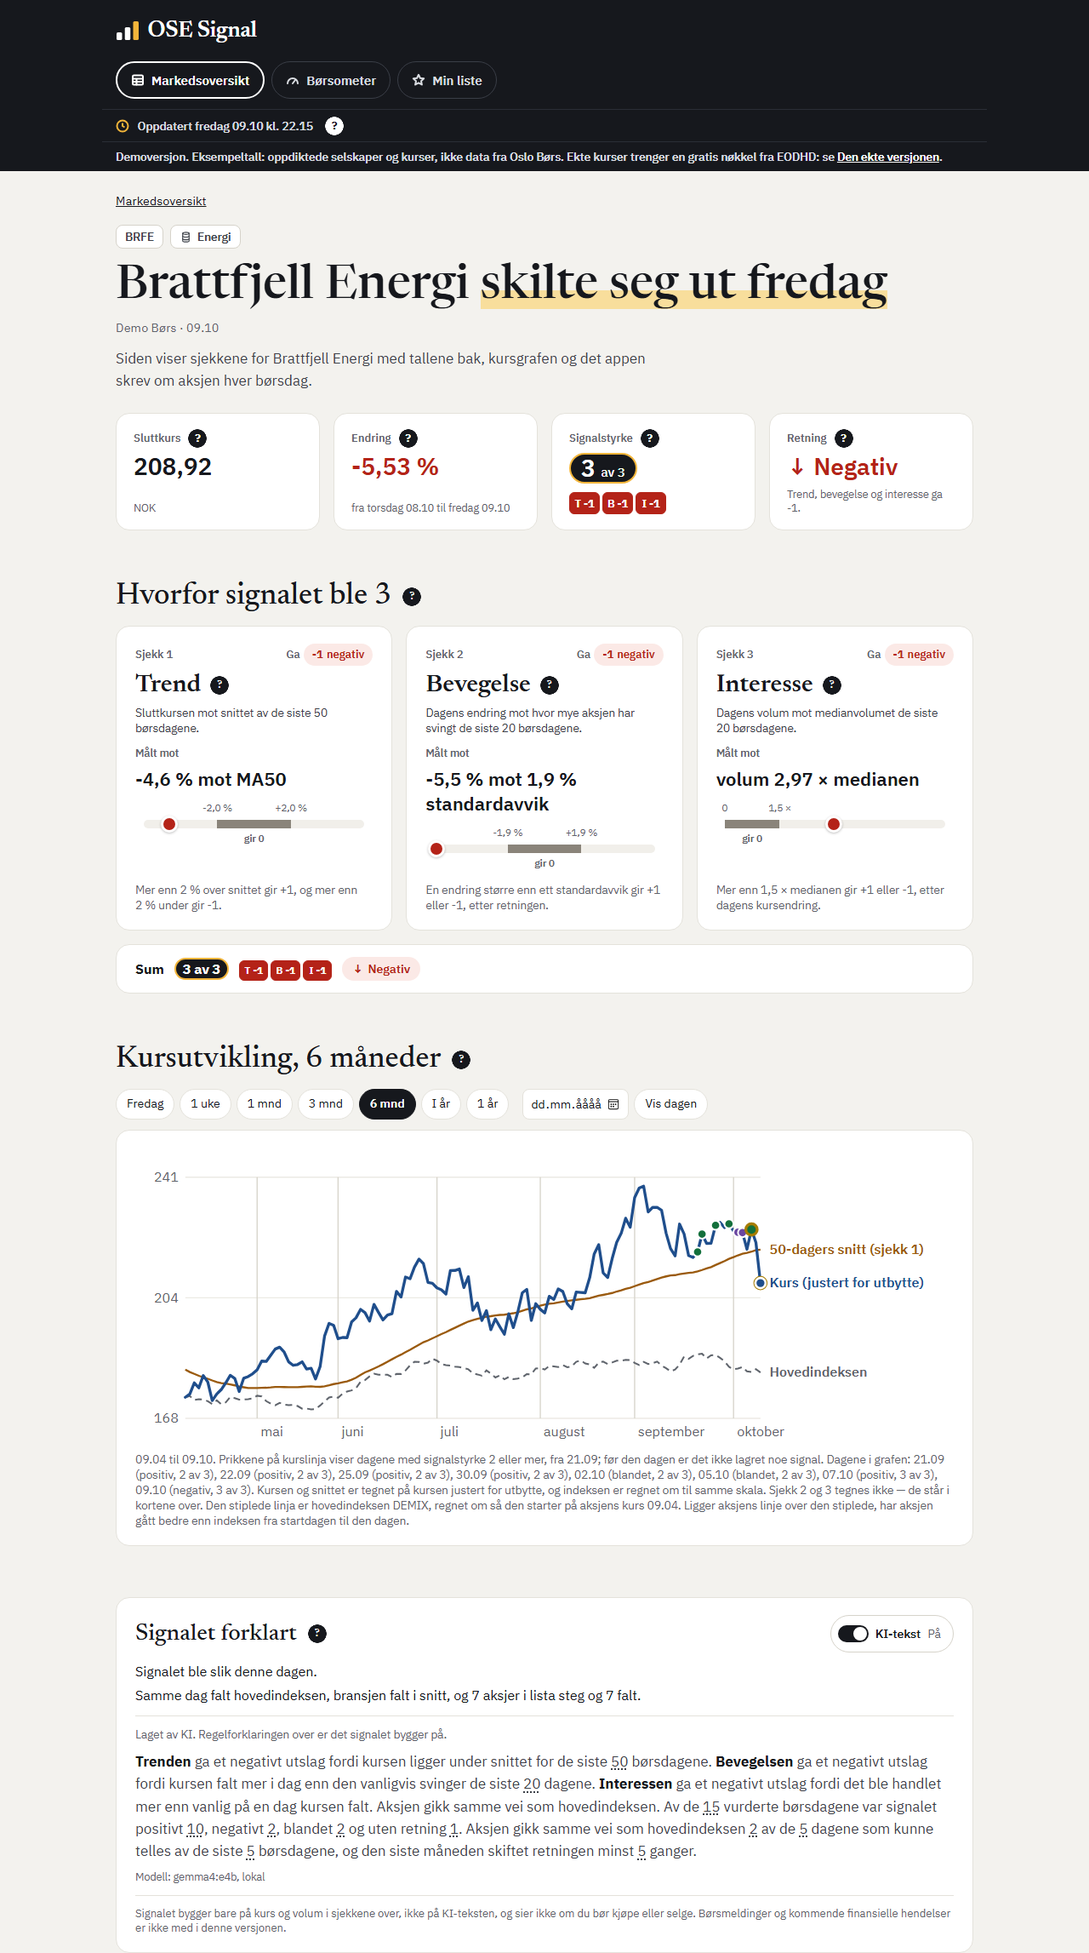
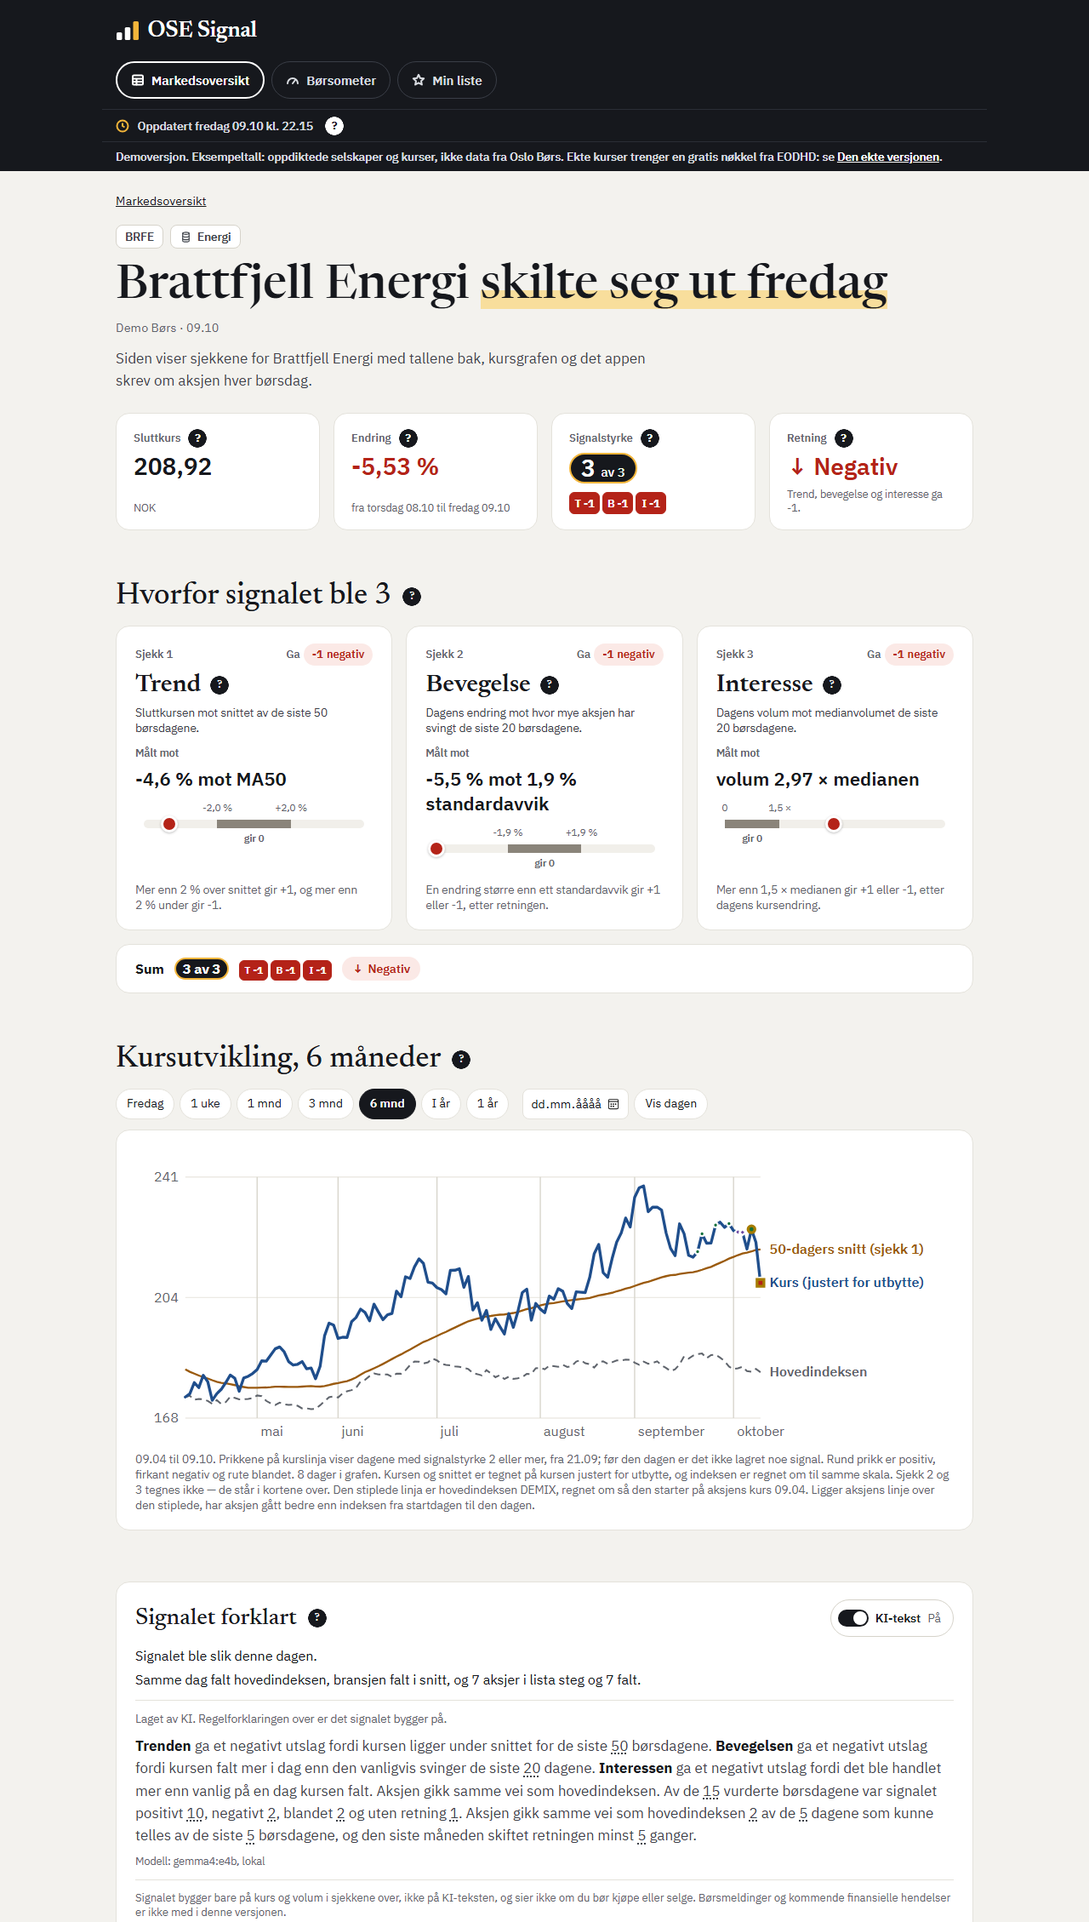
Story 8.8: rettingene etter gjennomgangen, skjult dagliste, form for retningen og prikkene øverst
BH3/ECH1: lista over dagene er skjult på aksjesiden, og antallet står.
ECH2: prikkene tegnes over siste-punktet. BH2/ECH7: rund, firkant og rute for
positiv, negativ og blandet. BH5: radien følger avstanden mellom dagene.
BH6/ECH4: en startdato etter grafen sies for seg. Triagen står i spesifikasjonen.

diff --git a/src/templates/aksje.html b/src/templates/aksje.html
@@ -207,13 +207,6 @@
           <polyline class="ma50linje" points="{{ g.ma50linje }}"></polyline>
         {% endif %}
         <polyline class="kurslinje" points="{{ g.kurslinje }}"></polyline>
-        {#- Story 8.8 (FR-206): en prikk på kurslinja for hver dag aksjen
-            skilte seg ut, i fargen for retningen, med gul ring ved 3 av 3.
-            Lest fra vurdering, aldri regnet. Skjermleseren får dagene i
-            teksten under grafen. #}
-        {% for s in g.signaldager %}
-          <circle class="signaldag {{ s.retning|lower }}{% if s.alle %} alle{% endif %}" cx="{{ "%.1f"|format(s.x) }}" cy="{{ "%.1f"|format(s.y) }}" r="{{ 5 if s.alle else 4 }}"></circle>
-        {% endfor %}
         {#- Story 8.20a (del C, spørsmål 9 i 8.20, U89): datoen i en svart lapp
             øverst på streken, og uten punktet nederst. Lappen står innenfor
             grafen sidelengs, også ved kanten. Story 8.20b (BH9): lappen står
@@ -226,6 +219,18 @@
           <text class="daglapptekst" text-anchor="middle" x="{{ "%.1f"|format(lappx + 22) }}" y="{{ lappy + 13 }}">{{ dagen.dato|dato }}</text>
         {% endif %}
         {% if g.siste %}<circle class="sistepunkt" cx="{{ "%.1f"|format(g.siste.x) }}" cy="{{ "%.1f"|format(g.siste.y) }}" r="4.5"></circle>{% endif %}
+        {#- Story 8.8 (FR-206): en prikk på kurslinja for hver dag aksjen
+            skilte seg ut, lest fra vurdering og aldri regnet. Gjennomgangen
+            (ECH2): tegnet etter siste-punktet og streken, så de ikke dekker
+            den. Gjennomgangen (BH2, ECH7): retningen har også en form,
+            rund for positiv, firkant for negativ og rute for blandet, og
+            gul ring ved 3 av 3. Skjermleseren får dagene under grafen. #}
+        {% for s in g.signaldager %}
+          {%- set klasse = "signaldag " ~ s.retning|lower ~ (" alle" if s.alle else "") %}
+          {% if s.retning == "Negativ" %}<rect class="{{ klasse }}" x="{{ "%.1f"|format(s.x - s.r) }}" y="{{ "%.1f"|format(s.y - s.r) }}" width="{{ "%.1f"|format(2 * s.r) }}" height="{{ "%.1f"|format(2 * s.r) }}"></rect>
+          {%- elif s.retning == "Blandet" %}<polygon class="{{ klasse }}" points="{{ "%.1f,%.1f %.1f,%.1f %.1f,%.1f %.1f,%.1f"|format(s.x, s.y - s.r * 1.3, s.x + s.r * 1.3, s.y, s.x, s.y + s.r * 1.3, s.x - s.r * 1.3, s.y) }}"></polygon>
+          {%- else %}<circle class="{{ klasse }}" cx="{{ "%.1f"|format(s.x) }}" cy="{{ "%.1f"|format(s.y) }}" r="{{ "%.1f"|format(s.r) }}"></circle>{% endif %}
+        {% endfor %}
         {#- Story 8.2b, b (U41, U47): navnene står i feltet til høyre, ved
             enden av linjene, og den stiplede linja har også navn. #}
         {% if g.kursnavn %}<text class="linjenavn kurs" x="{{ "%.1f"|format(g.kursnavn.x) }}" y="{{ "%.1f"|format(g.kursnavn.y) }}">{{ linjenavn.kurs }}</text>{% endif %}
@@ -270,7 +275,11 @@
         {#- FR-201: 1 år, og de andre periodene, viser bare det serien har. #}
         {% if kort_serie %}Kursserien begynner {{ serien_begynner|dato }}, så grafen viser bare det den har.{% endif %}
         {#- Story 8.8: datoen markeringene starter, og hvor mange dager. #}
-        {% if signal_fra %}Prikkene på kurslinja viser dagene med signalstyrke {{ parametre.terskel }} eller mer, fra {{ signal_fra|dato }}{% if signal_fra > graf.forste_dato %}; før den dagen er det ikke lagret noe signal{% endif %}.{% if graf.signaldager %} <span class="skjult">Dagene i grafen: {% for s in graf.signaldager %}{{ s.dato|dato }} ({{ s.retning|lower }}, {{ s.styrke }} av {{ antall_sjekker }}){% if not loop.last %}, {% endif %}{% endfor %}.</span>{% else %} Ingen dager i perioden.{% endif %}{% endif %}
+        {#- Gjennomgangen (BH4, BH6, ECH4): antallet står, lista over dagene
+            bare for skjermleser og bare opptil 31, og en startdato etter
+            grafen sies for seg. #}
+        {% if signal_fra and signal_fra > graf.siste_dato %}Signalet er lagret fra {{ signal_fra|dato }}, etter den siste dagen i grafen, så grafen har ingen prikker.
+        {% elif signal_fra %}{% set n = graf.signaldager|length %}Prikkene på kurslinja viser dagene med signalstyrke {{ parametre.terskel }} eller mer, fra {{ signal_fra|dato }}{% if signal_fra > graf.forste_dato %}; før den dagen er det ikke lagret noe signal{% endif %}. {% if n %}Rund prikk er positiv, firkant negativ og rute blandet. {{ n }} {{ "dag" if n == 1 else "dager" }} i grafen{% if n <= 31 %}<span class="skjult">: {% for s in graf.signaldager %}{{ s.dato|dato }} ({{ s.retning|lower }}, {{ s.styrke }} av {{ antall_sjekker }}){% if not loop.last %}, {% endif %}{% endfor %}</span>{% endif %}.{% else %}Ingen av dagene i grafen hadde signalstyrke {{ parametre.terskel }} eller mer.{% endif %}{% endif %}
         {% if dagen and graf.merket %}Dagen er merket med en strek.{% elif dagen %}{{ dagen.dato|dato }} har ingen kurs, så grafen slutter {{ graf.siste_dato|dato }}.{% endif %}
         {#- Story 2.9c (gjennomgangen, BH3): tre linjer når indeksen er med. #}
         {% if graf.har_indeks %}

diff --git a/src/static/stil.css b/src/static/stil.css
@@ -1142,3 +1142,5 @@ p.investorboble .skjult { position: absolute; width: 1px; height: 1px; overflow:
 :where(.side-aksje) .signaldag.negativ { fill: var(--ned); }
 :where(.side-aksje) .signaldag.blandet { fill: var(--blandet); }
 :where(.side-aksje) .signaldag.alle { stroke: var(--gul-symbol); stroke-width: 2.5; }
+:where(.side-aksje) figcaption .skjult { position: absolute; width: 1px; height: 1px; margin: -1px; overflow: hidden;
+                                         clip: rect(0 0 0 0); white-space: nowrap; }

diff --git a/tests/test_signaldager.py b/tests/test_signaldager.py
@@ -17,7 +17,12 @@ from vurderingsdata import Grunn, Vurdering
 
 
 def vurdering(styrke: int, retning: str) -> Vurdering:
-    fortegn = {(3, "Positiv"): (1, 1, 1), (2, "Blandet"): (1, -1, 0), (1, "Positiv"): (1, 0, 0)}[(styrke, retning)]
+    fortegn = {
+        (3, "Positiv"): (1, 1, 1),
+        (2, "Blandet"): (1, -1, 0),
+        (1, "Positiv"): (1, 0, 0),
+        (2, "Negativ"): (-1, -1, 0),
+    }[(styrke, retning)]
     trend, bevegelse, interesse = fortegn
     return Vurdering(
         **{
@@ -45,19 +50,20 @@ def klient():
 @pytest.fixture
 def aksjen():
     """EQNR med 61 dager fra 01.09 til 31.10, og fire lagrede dager: 3 av 3,
-    2 av 3 blandet, 1 av 3, og en grunn. Signalet er lagret fra 20.10."""
+    2 av 3 blandet, 2 av 3 negativ, 1 av 3, og en grunn. Signalet er lagret fra 20.10."""
     rader = serie([100.0 + i for i in range(61)])
     skriv_serie("EQNR", rader, datetime.fromisoformat(HENTET), vurdert=False)
     skriv_vurdering("EQNR", date(2026, 10, 20), Grunn.SYMBOL_FEILET)
     skriv_vurdering("EQNR", date(2026, 10, 21), vurdering(3, "Positiv"))
     skriv_vurdering("EQNR", date(2026, 10, 22), vurdering(2, "Blandet"))
-    skriv_vurdering("EQNR", date(2026, 10, 23), vurdering(1, "Positiv"))
+    skriv_vurdering("EQNR", date(2026, 10, 26), vurdering(1, "Positiv"))
+    skriv_vurdering("EQNR", date(2026, 10, 23), vurdering(2, "Negativ"))
     return rader
 
 
 def _prikker(html: str) -> list[str]:
     graf = html.split('<svg class="graf"', 1)[1].split("</svg>", 1)[0]
-    return re.findall(r'<circle class="signaldag ([a-z ]+)"', graf)
+    return re.findall(r'<(?:circle|rect|polygon) class="signaldag ([a-z ]+)"', graf)
 
 
 class TestGrafen:
@@ -65,14 +71,51 @@ class TestGrafen:
         """Ville feilet hvis en dag med grunn, uten rad eller med styrke under
         terskelen ble markert, eller 3 av 3 ikke hadde ringen."""
         side = klient.get("/aksje/EQNR?periode=3-mnd").data.decode("utf-8")
-        assert _prikker(side) == ["positiv alle", "blandet"]
+        assert _prikker(side) == ["positiv alle", "blandet", "negativ"]
+
+    def test_retningen_har_en_form(self, klient, aksjen):
+        """Gjennomgangen (BH2, ECH7, VG2): ville feilet hvis retningen bare
+        ble vist med farge."""
+        side = klient.get("/aksje/EQNR?periode=3-mnd").data.decode("utf-8")
+        graf = side.split('<svg class="graf"', 1)[1].split("</svg>", 1)[0]
+        assert '<circle class="signaldag positiv alle"' in graf
+        assert '<polygon class="signaldag blandet"' in graf and '<rect class="signaldag negativ"' in graf
+        assert "Rund prikk er positiv, firkant negativ og rute blandet." in side
+
+    def test_prikkene_tegnes_over_siste_punktet(self, klient, aksjen):
+        """Gjennomgangen (ECH2, VG3): ville feilet hvis siste-punktet dekket prikken."""
+        side = klient.get("/aksje/EQNR?periode=3-mnd").data.decode("utf-8")
+        graf = side.split('<svg class="graf"', 1)[1].split("</svg>", 1)[0]
+        assert graf.index('class="sistepunkt"') < graf.index('class="signaldag')
+
+    def test_lista_er_skjult_og_antallet_staar(self, klient, aksjen):
+        """Gjennomgangen (BH3, ECH1, VG1): ville feilet hvis lista over dagene
+        sto synlig under grafen."""
+        from pathlib import Path
+
+        css = (Path(app_modul.__file__).parent / "static" / "stil.css").read_text(encoding="utf-8")
+        assert re.search(r":where\(\.side-aksje\) figcaption \.skjult \{ position: absolute;", css)
+        side = klient.get("/aksje/EQNR?periode=3-mnd").data.decode("utf-8")
+        assert '3 dager i grafen<span class="skjult">: 21.10' in side
 
     def test_datoen_markeringene_starter(self, klient, aksjen):
         """Ville feilet hvis grafen ikke sa datoen, eller hadde markeringer før den."""
         side = klient.get("/aksje/EQNR?periode=3-mnd").data.decode("utf-8")
         assert "viser dagene med signalstyrke 2 eller mer, fra 20.10" in side
         assert "før den dagen er det ikke lagret noe signal" in side
-        assert "21.10 (positiv, 3 av 3), 22.10 (blandet, 2 av 3)" in side
+        assert "21.10 (positiv, 3 av 3), 22.10 (blandet, 2 av 3), 23.10 (negativ, 2 av 3)" in side
+
+    def test_uten_setningen_naar_grafen_starter_etter(self, klient, aksjen):
+        """VG5: ville feilet hvis «før den dagen» sto når grafen starter etter den."""
+        side = klient.get("/aksje/EQNR?periode=1-uke").data.decode("utf-8")
+        assert "fra 20.10." in side and "før den dagen" not in side
+
+    def test_velg_dag_foer_signalet(self, klient, aksjen):
+        """Gjennomgangen (BH6, ECH4, VG4): ville feilet hvis teksten sa en
+        startdato etter grafen som om den var i den."""
+        side = klient.get("/aksje/EQNR?periode=velg&dag=2026-10-05").data.decode("utf-8")
+        assert "Signalet er lagret fra 20.10, etter den siste dagen i grafen, så grafen har ingen prikker." in side
+        assert _prikker(side) == []
 
     def test_uten_lagret_signal_ingen_prikker(self, klient):
         rader = serie([100.0 + i for i in range(61)])
@@ -91,11 +134,13 @@ class TestGrafen:
     def test_den_smale_grafen_har_dem_ogsaa(self, klient, aksjen):
         side = klient.get("/aksje/EQNR?periode=3-mnd").data.decode("utf-8")
         smal = side.split('<svg class="graf smal"', 1)[1].split("</svg>", 1)[0]
-        assert len(re.findall(r'<circle class="signaldag', smal)) == 2
+        assert len(re.findall(r'<(?:circle|rect|polygon) class="signaldag', smal)) == 3
 
     def test_en_dag_utenfor_perioden_faar_ingen_prikk(self, klient, aksjen):
+        """VG6: og teksten sier at ingen av dagene i grafen hadde det."""
         side = klient.get("/aksje/EQNR?periode=1-uke").data.decode("utf-8")
         assert _prikker(side) == []
+        assert "Ingen av dagene i grafen hadde signalstyrke 2 eller mer." in side
 
 
 def test_hjelpen_sier_det():

diff --git a/tests/test_docker.py b/tests/test_docker.py
@@ -1232,9 +1232,9 @@ HOEYDE_PAA_BILDET = 1864
 # Story 3.4h: skriftene for sidene i demoen i src/static/fonts/ og stil.css.
 # Bildet ble tatt paa nytt med DevTools-protokollen og er byte for byte det samme.
 # Story 8.8: prikkene for signaldagene i kursgrafen (aksje.html, graf.py, app.py og stil.css).
-# Alle bildene ble tatt paa nytt med DevTools-protokollen. Aksjesiden er ny og 2294 px hoey;
+# Alle bildene ble tatt paa nytt med DevTools-protokollen. Aksjesiden er ny og 2258 px hoey;
 # de andre er byte for byte de samme.
[2 lines of base64/hex data omitted]
 SLIK_TAS_BILDET = (
     "Oversikten er endret, så skjermbildet viser noe annet enn demoen. Ta "
     f"{SKJERMBILDET} på nytt etter «Bildet» i spesifikasjonen 3.3b: demobasen i en "
@@ -1331,8 +1331,7 @@ IKKE_BAK_AKSJESIDEN = {"src/lagring_fil.py", "src/eodhd.py", "src/boersometer.py
 # Story 3.4h: 2258, fordi fotnoten om NewsWeb mellom grafen og rammen er borte
 # (boblen står nederst). Bunnen av rammen er 2257,5 px, maalt med
 # DevTools-protokollen og rundet opp. Var 2300.
-# Story 8.8: 2294, fordi teksten under grafen har en linje om prikkene og dagene. Var 2258.
-HOEYDE_PAA_AKSJESIDEN = 2294
+HOEYDE_PAA_AKSJESIDEN = 2258
 # Story 2.3, kl. 22 fra 20.10: stripa sier kl. 22.15 igjen, ikke 21.15.
 # Story 10.5: lenken til investorsiden står under grafen, ved 1980 px målt i
 # Edge uten vindu, så bildet, som slutter ved bunnen av grafen (1872 px), ble
@@ -1599,9 +1598,9 @@ HOEYDE_PAA_AKSJESIDEN = 2294
 # _investorboble.html), investorsider.py, skriftene og stil.css. Bildet ble tatt paa
 # nytt og er 2258 px hoeyt.
 # Story 8.8: prikkene for signaldagene i kursgrafen (aksje.html, graf.py, app.py og stil.css).
-# Alle bildene ble tatt paa nytt med DevTools-protokollen. Aksjesiden er ny og 2294 px hoey;
+# Alle bildene ble tatt paa nytt med DevTools-protokollen. Aksjesiden er ny og 2258 px hoey;
 # de andre er byte for byte de samme.
[2 lines of base64/hex data omitted]
 SLIK_TAS_AKSJESIDEN = (
     "Aksjesiden er endret, så bildet av den viser noe annet enn demoen. Ta "
     f"{AKSJESIDEBILDET} på nytt med fremgangsmåten i spesifikasjonen 3.3b, mot /aksje/BRFE: "
@@ -1698,14 +1697,14 @@ DE_NYE_BILDENE = {
 # Story 3.4h: skriftene for sidene i demoen i src/static/fonts/ og stil.css. Alle
 # bildene ble tatt paa nytt med DevTools-protokollen og er byte for byte de samme.
 # Story 8.8: prikkene for signaldagene i kursgrafen (aksje.html, graf.py, app.py og stil.css).
-# Alle bildene ble tatt paa nytt med DevTools-protokollen. Aksjesiden er ny og 2294 px hoey;
+# Alle bildene ble tatt paa nytt med DevTools-protokollen. Aksjesiden er ny og 2258 px hoey;
 # de andre er byte for byte de samme.
 AVTRYKK_BAK_DE_NYE_BILDENE = {
[10 lines of base64/hex data omitted]
 }
 SLIK_TAS_DE_NYE_BILDENE = (
     "Siden bak {bildet} er endret, så bildet viser noe annet enn demoen. Ta det på nytt som "

diff --git a/src/graf.py b/src/graf.py
@@ -180,6 +180,9 @@ class Signaldag:
     retning: str
     styrke: int
     alle: bool
+    # Gjennomgangen (BH5, ECH3): radien etter avstanden mellom dagene, så
+    # prikkene ikke blir et bånd over kurslinja i lange perioder.
+    r: float = 4.0
 
 
 @dataclass(frozen=True)
@@ -561,6 +564,10 @@ def bygg_graf(
         punktet = Navn(_x(i, len(punkter), bredde, hoeyre), _y(punkter[i].kurs, lav, hoy, hoyde, bunn))
     # Story 8.8: signal er {dato: (styrke, retning)} for dagene som skilte seg
     # ut, lest fra vurdering (les_periode). Bare dager grafen har, får en prikk.
+    avstand = (
+        abs(_x(1, len(punkter), bredde, hoeyre) - _x(0, len(punkter), bredde, hoeyre)) if len(punkter) > 1 else 8.0
+    )
+    radius = min(4.0, max(2.0, avstand / 2))
     signaldager = tuple(
         Signaldag(
             dato=d,
@@ -569,6 +576,7 @@ def bygg_graf(
             retning=signal[d][1],
             styrke=signal[d][0],
             alle=signal[d][0] >= alle,
+            r=radius + (1.0 if signal[d][0] >= alle else 0.0),
         )
         for i, d in enumerate(datoene)
         if signal and d in signal

diff --git a/_bmad-output/implementation-artifacts/spec-8-8-signaldager-i-kursgrafen.md b/_bmad-output/implementation-artifacts/spec-8-8-signaldager-i-kursgrafen.md
@@ -60,4 +60,25 @@ Bygget på grenen `8-8-signaldager-i-kursgrafen`, i worktreen `G74-lund-osen-8-8
 - **Filene:** `Signaldag` og `signal` i `bygg_graf` (`src/graf.py`), `_signaldagene` i `src/app.py`, som leser med `les_periode`, prikkene og teksten under grafen i `src/templates/aksje.html`, fargene i `src/static/stil.css`, og «Hva er prikkene på kurslinja?» i `docs/hjelp.md`.
 - **Avvik:** del D sier «hjelpen ved grafen». Hjelpen bak «?» ved grafen er ikke endret, fordi teksten under grafen sier hva prikkene er og datoen; `docs/hjelp.md` har forklaringen. README-en sier ingenting om grafen som blir feil.
 - **Tester («Ville feilet hvis» i hver):** `tests/test_signaldager.py`. `test_siden_leser_en_gang_per_maaned` i `tests/test_historikken.py` teller nå én lesing til, for hele perioden, aldri dag for dag.
-- **Hele settet alene** kl. 20:01:39–20:10:55: 4581 bestått, 24 hoppet over og 0 feilet. Bildet av aksjesiden er nytt og 2294 px høyt (teksten under grafen har en linje til); de andre er byte for byte de samme.
+- **Hele settet alene** kl. 20:01:39–20:10:55: 4581 bestått, 24 hoppet over og 0 feilet. Bildet av aksjesiden er nytt; de andre er byte for byte de samme.
+
+## Mutantene
+
+På `9a7f7fa9` fire: A (en dag under terskelen markeres) 2, B (3 av 3 får ikke ringen) 1, C (grafen sier ikke datoen) 1 og D (den smale grafen mangler prikkene) 1 test. Alle ble fanget, og hver fil var lik HEAD etterpå.
+
+## Gjennomgangen 08.11 (Blind Hunter, Edge Case Hunter og Verification Gap)
+
+Blind Hunter med bare diffen, og Edge Case Hunter og Verification Gap i samme agent, med repoet. Blind Hunter hadde 15 funn, Edge Case Hunter 9 og Verification Gap 10. Ingen høye.
+
+**Middels, alle rettet**
+- *BH3, ECH1, VG1:* lista over dagene sto synlig under grafen, fordi `.skjult` ikke gjaldt på aksjesiden. Nå er den skjult, og antallet står synlig (`test_lista_er_skjult_og_antallet_staar`).
+- *ECH2, VG3:* siste-punktet dekket prikken for siste dag. Prikkene tegnes nå etter siste-punktet og streken (`test_prikkene_tegnes_over_siste_punktet`).
+- *BH2, ECH7, VG2:* retningen ble bare vist med farge. Nå har den også en form, rund for positiv, firkant for negativ og rute for blandet, og teksten under grafen sier det (`test_retningen_har_en_form`).
+- *BH4:* lista for skjermleseren hadde ingen grense. Nå står antallet, og lista bare opptil 31 dager.
+- *BH5, ECH3:* prikkene ble et bånd i lange perioder. Radien følger nå avstanden mellom dagene, mellom 2 og 4 px.
+- *BH6, ECH4, VG4:* med «Velg dag» før signalet sto en startdato etter grafen som om den var i den. Nå står «Signalet er lagret fra …, etter den siste dagen i grafen» (`test_velg_dag_foer_signalet`).
+
+**Lav**
+- *Rettet:* BH10 (negativ testes), BH12 og VG6 («Ingen av dagene i grafen hadde …»), VG5 (setningen «før den dagen» testes også når den ikke skal stå), BH7 (hjelpen sier nå at startdatoen er den første raden, med signal eller grunn), BH14 (`dato` viser året når det er et annet).
+- *Ført:* BH1 og ECH6 (terskelen er `STANDARD`, som `parametre` på siden, så de er like; endres terskelen, tolkes historikken med den nye), BH8 og ECH8 (hele historikken leses to ganger per side), BH9 (testen av `bygg_graf` alene; appnivåtestene fanger en mutant som regner signalet, VG), BH11, VG9 og VG10 (hjelpeteksten er ikke bundet til tallene), BH13 (status), BH15 (navnet `alle`), ECH5 og VG8 (en ugyldig rad gir ingen prikker uten beskjed), VG7.
+- **Etter gjennomgangen:** hele settet alene kl. 20:28:03–20:37:44: 4586 bestått, 24 hoppet over og 0 feilet. Bildet av aksjesiden er tatt på nytt, 2258 px som før.

diff --git a/docs/hjelp.md b/docs/hjelp.md
@@ -179,7 +179,7 @@ Nederst på aksjesiden står «Signalet dag for dag»: det appen skrev om aksjen
 
 ### Hva er prikkene på kurslinja?
 
-Prikkene på kurslinja i kursgrafen på aksjesiden viser dagene aksjen skilte seg ut, med signalstyrke 2 eller mer, som i oversikten. Fargen er retningen den dagen: grønn for positiv, rød for negativ og lilla for blandet, og en gul ring betyr 3 av 3. Prikkene er det appen lagret den kvelden, ikke regnet på nytt av kursene. En dag uten signal, med en grunn eller som ikke er børsdag, har ingen prikk, og heller ikke en dag med styrke 0 eller 1. Under grafen står datoen signalet begynte å bli lagret, og før den er det ingen prikker. I demoen begynner de mandag 21. september 2026.
+Prikkene på kurslinja i kursgrafen på aksjesiden viser dagene aksjen skilte seg ut, med signalstyrke 2 eller mer, som i oversikten. Fargen og formen er retningen den dagen: en grønn rund prikk for positiv, en rød firkant for negativ og en lilla rute for blandet, og en gul ring betyr 3 av 3. Under grafen står hvor mange slike dager grafen har. Prikkene er det appen lagret den kvelden, ikke regnet på nytt av kursene. En dag uten signal, med en grunn eller som ikke er børsdag, har ingen prikk, og heller ikke en dag med styrke 0 eller 1. Under grafen står datoen den første raden for aksjen ble lagret, med signal eller med en grunn, og før den er det ingen prikker. I demoen begynner de mandag 21. september 2026.
 
 ### Hva er «Signalet forklart» på aksjesiden?
 
